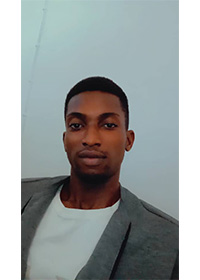
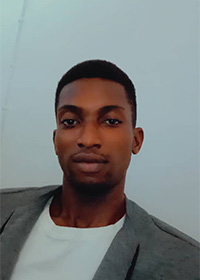
added style.css

diff --git a/styles/styles.css b/styles/styles.css
@@ -1,0 +1,26 @@
+nav {
+    background-color: darkblue;
+    padding: 10px;
+}
+
+nav a {
+    color: white;
+    display: block;
+    padding: 20px;
+}
+
+h1 {
+    color: darkblue;
+}
+
+img {
+    width: 150px;
+    height: auto;
+    border: 1px solid black;
+    padding: 2px;
+    box-shadow: 0 0 30px gray;
+}
+
+p {
+    padding: 10px;
+}

diff --git a/index.html b/index.html
@@ -3,6 +3,7 @@
 <head>
     <meta charset="UTF-8">
     <meta name="viewport" content="width=device-width, initial-scale=1.0">
+    <link rel="stylesheet" href="styles/styles.css">
     <title>Ricman Bibowei Fedidel | WWD 130</title>
 </head>
 <body>
